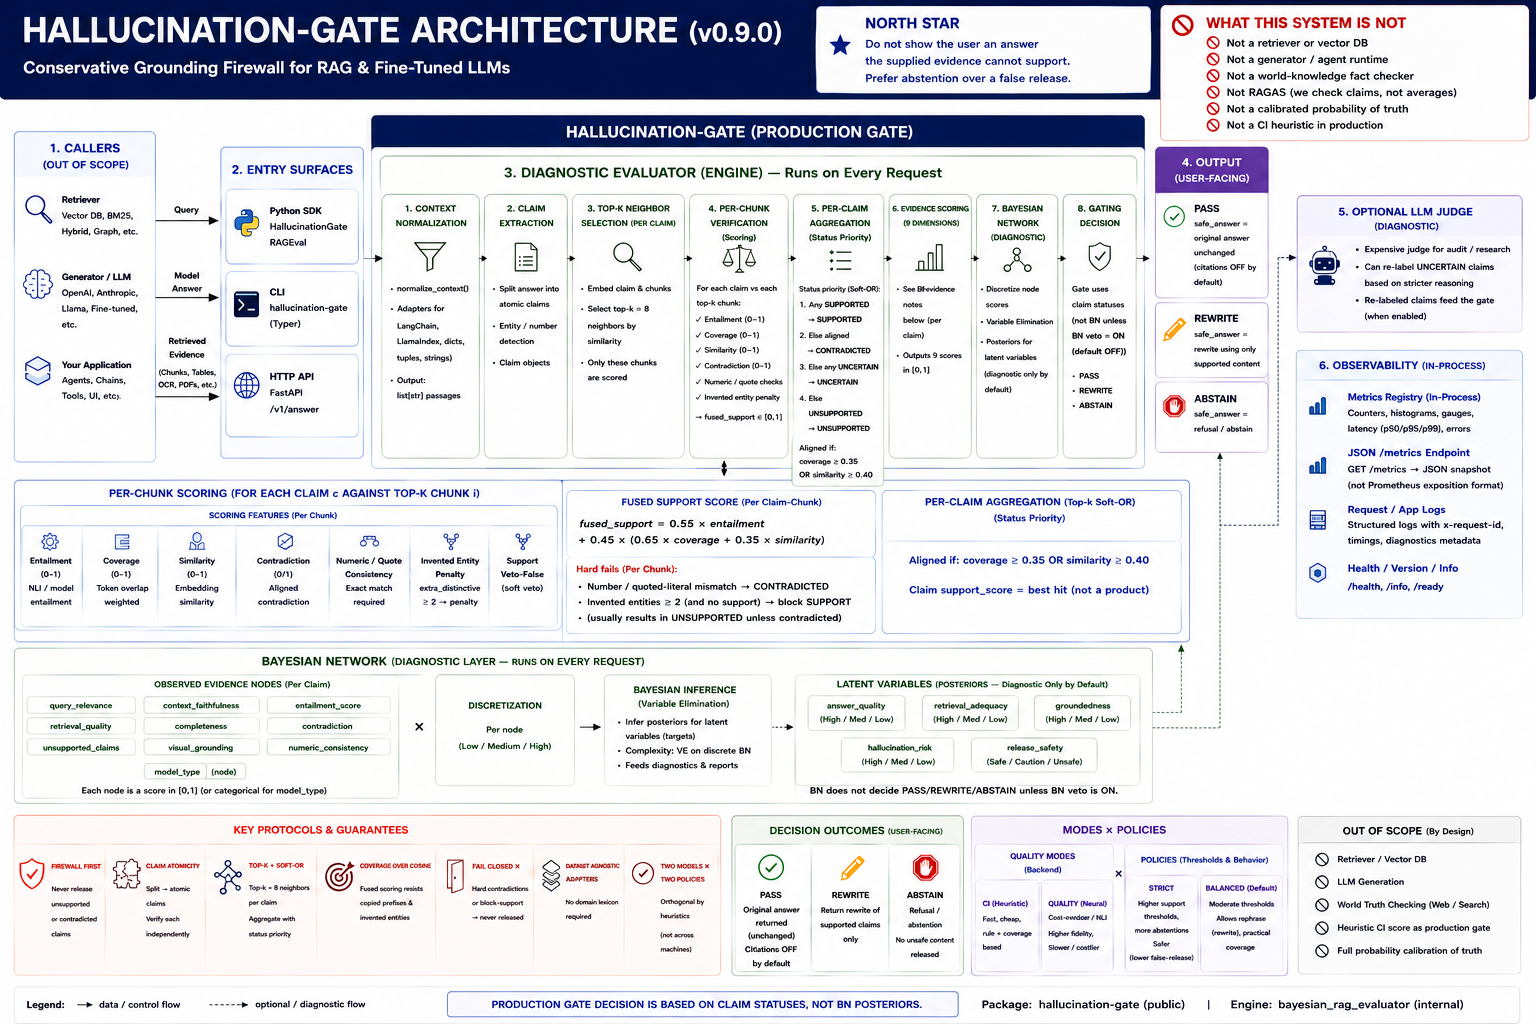
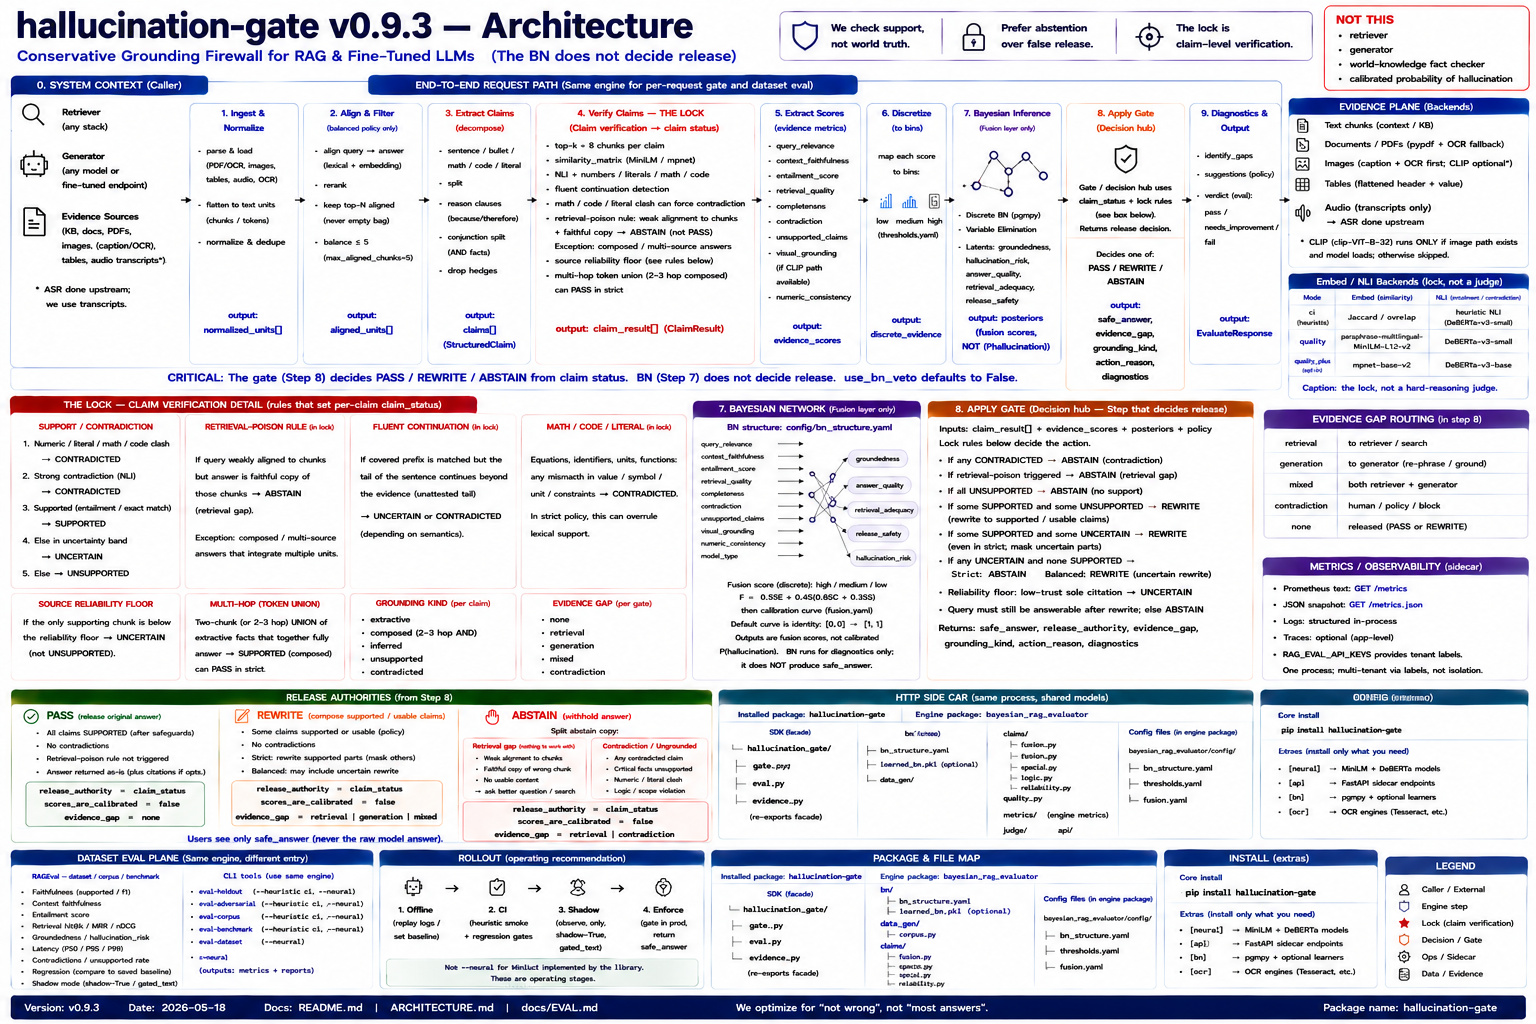
Release 0.9.4: stamp architecture docs and poster to match the shipped lock.
PyPI 0.9.3 froze an older README and v0.9.0 visual; this refresh cannot overwrite that release.

diff --git a/src/bayesian_rag_evaluator/api/main.py b/src/bayesian_rag_evaluator/api/main.py
@@ -30,7 +30,7 @@ logging.basicConfig(level=logging.INFO, format="%(asctime)s %(levelname)s %(mess
 
 app = FastAPI(
     title="Hallucination Gate",
-    version="0.9.3",
+    version="0.9.4",
     description=(
         "Conservative grounding sidecar. Claim status decides release; BN scores are "
         "diagnostic fusion, not calibrated P(hallucination). Public /v1/answer returns "
@@ -132,7 +132,7 @@ def health() -> dict[str, str]:
     heuristic = os.getenv("RAG_EVAL_HEURISTIC", "").lower() in {"1", "true", "yes"}
     return {
         "status": "ok",
-        "version": "0.9.3",
+        "version": "0.9.4",
         "backend": "heuristic" if heuristic else "neural",
         "release_authority": "claim_status",
         "scores_are_calibrated": "false",

diff --git a/src/hallucination_gate/__init__.py b/src/hallucination_gate/__init__.py
@@ -36,7 +36,7 @@ try:
 except Exception:  # pragma: no cover
     BALANCED = STRICT = PolicyProfile = resolve_mode = resolve_policy = None  # type: ignore
 
-__version__ = "0.9.3"
+__version__ = "0.9.4"
 __all__ = [
     "HallucinationGate",
     "GatedAnswer",

diff --git a/src/bayesian_rag_evaluator/__init__.py b/src/bayesian_rag_evaluator/__init__.py
@@ -8,5 +8,5 @@ This package intentionally does **not** re-export HallucinationGate here, so
 importing engine submodules cannot cycle through the public SDK.
 """
 
-__version__ = "0.9.3"
+__version__ = "0.9.4"
 __all__: list[str] = []

diff --git a/src/hallucinate_gate/__init__.py b/src/hallucinate_gate/__init__.py
@@ -27,7 +27,7 @@ from hallucination_gate import (
     score_retrieval,
 )
 
-__version__ = "0.9.3"
+__version__ = "0.9.4"
 __all__ = [
     "HallucinationGate",
     "GatedAnswer",

diff --git a/ARCHITECTURE.md b/ARCHITECTURE.md
@@ -1,7 +1,7 @@
 # Architecture — hallucination-gate
 
 **Audience:** engineering leadership, integrators, reviewers.
-**Product:** v0.9.2 — conservative grounding firewall for RAG and fine-tuned LLMs.
+**Product:** v0.9.4 — conservative grounding firewall for RAG and fine-tuned LLMs.
 **North star:** do not show the user an answer the supplied evidence cannot support. Prefer abstention over a false release.
 
 This document is the system design, not a tutorial. For install and API snippets, see [README.md](README.md).
@@ -46,7 +46,7 @@ If a design choice conflicts with (2), the design is wrong for this product.
 5. **Dataset-agnostic adapters.** LangChain `Document`, LlamaIndex nodes, dicts, tuples, raw strings — all flatten to `list[str]` via `normalize_context`. No domain lexicon.
 6. **Two quality modes, two policies.** Mode selects backends (heuristic vs neural). Policy selects thresholds. They are orthogonal.
 7. **Fail closed on contradiction.** Any contradicted claim → abstain. Partial support → rewrite iff the remaining text still answers the query.
-8. **Inference is not extractive support.** Multi-hop may *tag* `grounding_kind=inferred`; strict policy will not treat it as a release. Low-reliability sources cannot be the sole SUPPORTED citation.
+8. **Composed ≠ inferred.** Multi-hop AND of extractive conjuncts is `grounding_kind=composed` and **may PASS in strict**. Speculative NLI-only joins stay `inferred`; strict will not release them. Low-reliability sources cannot be the sole SUPPORTED citation.
 
 ---
 
@@ -78,10 +78,10 @@ If a design choice conflicts with (2), the design is wrong for this product.
 | Surface | Entry | Typical consumer |
 |---|---|---|
 | Python SDK | `from hallucination_gate import HallucinationGate, RAGEval` | App code, notebooks |
-| CLI | `hallucination-gate` (`evaluate`, `eval-dataset`, `eval-heldout`, `eval-adversarial`, `eval-benchmark`, `calibrate`) | Local debug, CI |
+| CLI | `hallucination-gate` (`evaluate`, `eval-dataset`, `eval-heldout`, `eval-adversarial`, `eval-corpus`, `eval-benchmark`, `calibrate`) | Local debug, CI |
 | HTTP | FastAPI `api/main.py` — `/v1/answer`, `/evaluate`, `/evaluate/batch` | Sidecar / service |
 
-Public package name is `hallucination-gate`. Internal engine package is `bayesian_rag_evaluator`. The thin public façade is `hallucinate_gate` (re-exported as `hallucination_gate`). Engine modules **must not** import the façade — that cycle is intentional and load-bearing.
+Public package name is `hallucination-gate`. Public SDK is `hallucination_gate`. `hallucinate_gate` is a thin re-export shim. Internal engine package is `bayesian_rag_evaluator`. Engine modules **must not** import the façade — that cycle is intentional and load-bearing.
 
 ---
 
@@ -89,11 +89,11 @@ Public package name is `hallucination-gate`. Internal engine package is `bayesia
 
 ```
 src/
-  hallucination_gate/          preferred public import alias
-  hallucinate_gate/            public SDK
+  hallucination_gate/          public SDK
     gate.py                    HallucinationGate, GatedAnswer
     evidence.py                Evidence / ImageEvidence / TableEvidence
-    eval.py                    RAGEval re-export
+    eval.py                    RAGEval
+  hallucinate_gate/            thin re-export shim
   bayesian_rag_evaluator/      engine (not the public brand)
     evaluator.py               DiagnosticEvaluator — the pipeline
     quality.py                 ci|quality|quality_plus  ×  strict|balanced
@@ -106,7 +106,7 @@ src/
       policy.py                decide_status
       verifier.py              top-k + soft-OR + reliability + multi-hop
       logic.py                 temporal / negation / scope
-      multihop.py              two-chunk inferred support
+      multihop.py              2–3 hop composed (releasable) + inferred (not in strict)
       reliability.py           source_reliability stamp
       fusion.py                calibrated fused_support
     evidence/                  backends, ingest, OCR, align, scorers, multimodal
@@ -155,7 +155,9 @@ HallucinationGate.check(query, answer, context|kb|Evidence)
         │      calibrated fused_support · decide_status per chunk
         │      soft-OR aggregate → ClaimResult
         │      reliability floor: low-trust chunk cannot be sole SUPPORTED
-        │      multi-hop if still unsupported/uncertain → grounding_kind=inferred
+        │      multi-hop if still unsupported/uncertain
+        │        composed (extractive AND) may SUPPORTED in strict
+        │        inferred (NLI-only) stays UNCERTAIN in strict
         │      optional refine_uncertain_claims (LLM judge, off by default)
         │
         ├─ 4. extract() → EvidenceScores
@@ -225,7 +227,7 @@ This is the false-release lock. Neighbor-chunk number clashes cannot sink a clai
 After aggregation:
 
 - If the winning `SUPPORTED` citation has `reliability < min_support_reliability` → downgrade to `UNCERTAIN` (`grounding_kind=extractive`).
-- If still `UNSUPPORTED` or `UNCERTAIN`, `try_multihop` may jointly score two chunks that each contribute unique claim tokens. Success sets `grounding_kind=inferred`. **strict** keeps status `UNCERTAIN` (not a release). **balanced** may mark `SUPPORTED` when `allow_inferred_release=True`.
+- If still `UNSUPPORTED` or `UNCERTAIN`, `try_multihop` may jointly score 2–3 chunks that each contribute unique claim tokens. **Composed** (AND of extractive conjuncts) may be `SUPPORTED` in strict. **Inferred** (joint NLI without per-conjunct cover) stays `UNCERTAIN` in strict; **balanced** may mark `SUPPORTED` when `allow_inferred_release=True`.
 - `grounding_kind` is diagnostic of *how* the claim relates to evidence; gate action still follows `ClaimVerdict`.
 
 ### 7.4 Optional LLM judge
@@ -240,6 +242,9 @@ After aggregation:
 
 ```
 contradicted claims?          → ABSTAIN  (always)
+supported but retrieval_quality < 0.40
+    (query ≥ 2 tokens, not multi-source/composed)
+                              → ABSTAIN  (retrieval-poison / wrong chunk)
 no supported claims?
     balanced + uncertain-only
     + high overlap + answers query
@@ -464,7 +469,7 @@ We do **not** currently: isolate tenant data or models, stream, batch-NLI on GPU
 | Public HTTP returns `safe_answer` only | `/v1/answer` | User-facing clients must not see the raw hallucination |
 | Balanced default in SDK | fewer over-refusals | Strict remains one flag away; contradiction bar unchanged |
 | Optional judge | UNCERTAIN band only | Do not let a chat model become the firewall |
-| Inferred ≠ extractive | Tag multi-hop; strict does not release it | Composition is weaker than a copied chunk |
+| Composed ≠ inferred | Extractive AND across 2–3 hops may release; NLI-only inferred does not in strict | Composition of copied facts is stronger than speculative join |
 | Reliability floor | Downgrade sole low-trust citations | Caller can mark scraped/untrusted sources |
 | BN never ships `safe_answer` | `release_authority=claim_status` on every response | Buyers must not hear “Bayesian = calibrated risk” |
 | Label retrieval failure | `evidence_gap` | Operators can fix the retriever instead of blaming the generator |
@@ -479,8 +484,9 @@ These sit **on the lock**, not in the BN.
 | Capability | Module | Release rule |
 |---|---|---|
 | Structured decomposition | `claims/extractor.py` | Reason/conjunction splits so packed hallucinations can be dropped |
-| Inference vs unsupported | `ClaimResult.grounding_kind` | `inferred` ≠ `unsupported`; strict still will not release inferred |
-| Multi-hop | `claims/multihop.py` | Two hops must each contribute unique claim tokens; union still needs coverage |
+| Inference vs unsupported | `ClaimResult.grounding_kind` | `extractive` / `composed` / `inferred` / `unsupported` / `contradicted`; strict will not release inferred |
+| Multi-hop | `claims/multihop.py` | 2–3 hops each contribute unique claim tokens; composed may PASS in strict |
+| Retrieval poison | `gate/engine.py` | Faithful copy of weakly aligned chunks → ABSTAIN (`evidence_gap=retrieval`) |
 | Temporal / negation / scope | `claims/logic.py` | Clear mismatches raise contradiction; weak topical chunks ignored |
 | Source reliability | `source_reliability` on the request | Below `min_support_reliability` → UNCERTAIN, not SUPPORTED |
 | Calibrated fusion | `claims/fusion.py` + `config/fusion.yaml` | Same weights as before; optional piecewise calibration (never raises scores above evidence) |
@@ -512,8 +518,8 @@ hallucination-gate eval-adversarial
 hallucination-gate eval-benchmark
 ```
 
-See [docs/EVAL.md](docs/EVAL.md) for the snapshot. False-release is the SLO (~0). Over-refusal is published, not hidden. Neural `quality` / `quality_plus` numbers belong in *your* customer set — this package does not claim them from MiniLM smoke tests.
+See [docs/EVAL.md](docs/EVAL.md) for the snapshot. Heuristic **and** neural (`quality`) held-out / adversarial numbers are published. `quality_plus` is unpublished — run it on *your* labels. False-release is the SLO (~0 on heuristic). Over-refusal is published, not hidden. In-repo n=52 is not a customer mix.
 
 ---
 
-*Shreyas G — hallucination-gate v0.9.2. Sole contributor. If a change makes it easier to release an unsupported claim, it is a regression regardless of RAGAS-like averages.*
+*Shreyas G — hallucination-gate v0.9.4. Sole contributor. If a change makes it easier to release an unsupported claim, it is a regression regardless of RAGAS-like averages.*

diff --git a/README.md b/README.md
@@ -1,6 +1,6 @@
 # hallucination-gate
 
-[![PyPI](https://img.shields.io/pypi/v/hallucination-gate.svg)](https://pypi.org/project/hallucination-gate/)
+[![PyPI](https://img.shields.io/pypi/v/hallucination-gate.svg?cacheSeconds=300)](https://pypi.org/project/hallucination-gate/)
 [![Python](https://img.shields.io/pypi/pyversions/hallucination-gate.svg)](https://pypi.org/project/hallucination-gate/)
 [![License: MIT](https://img.shields.io/badge/license-MIT-blue.svg)](LICENSE)
 [![CI](https://github.com/shrey315/hallucination-gate/actions/workflows/ci.yml/badge.svg)](https://github.com/shrey315/hallucination-gate/actions/workflows/ci.yml)
@@ -17,7 +17,7 @@ Visual architecture (download): [SVG](docs/architecture-visual.svg) · [PNG](doc
 - **Latency budget:** p50 / p95 / p99 / max ceilings
 - **Modes:** `ci` (heuristic smoke) vs `quality` (MiniLM + DeBERTa-small) vs `quality_plus` (mpnet + DeBERTa-base); policies `strict` / `balanced`
 - **Gate:** pass / rewrite / abstain for production `safe_answer`
-- **Lock upgrades:** structured claims, multi-hop *inferred* (not a release in strict), temporal/negation/scope, source reliability, calibrated fusion
+- **Lock upgrades:** structured claims, composed 2–3 hop (strict may pass), inferred NLI-only (strict will not), retrieval-poison abstain, temporal/negation/scope, source reliability
 - **Bench:** `hallucination-gate eval-adversarial` / `eval-benchmark`
 
 Author: **Shreyas G**.

diff --git a/docs/EVAL.md b/docs/EVAL.md
@@ -1,4 +1,4 @@
-# Published gate numbers (v0.9.3)
+# Published gate numbers (v0.9.4)
 
 **SLO:** false-release ≈ 0 on the heuristic lock. Over-refusal is an accepted cost.
 
